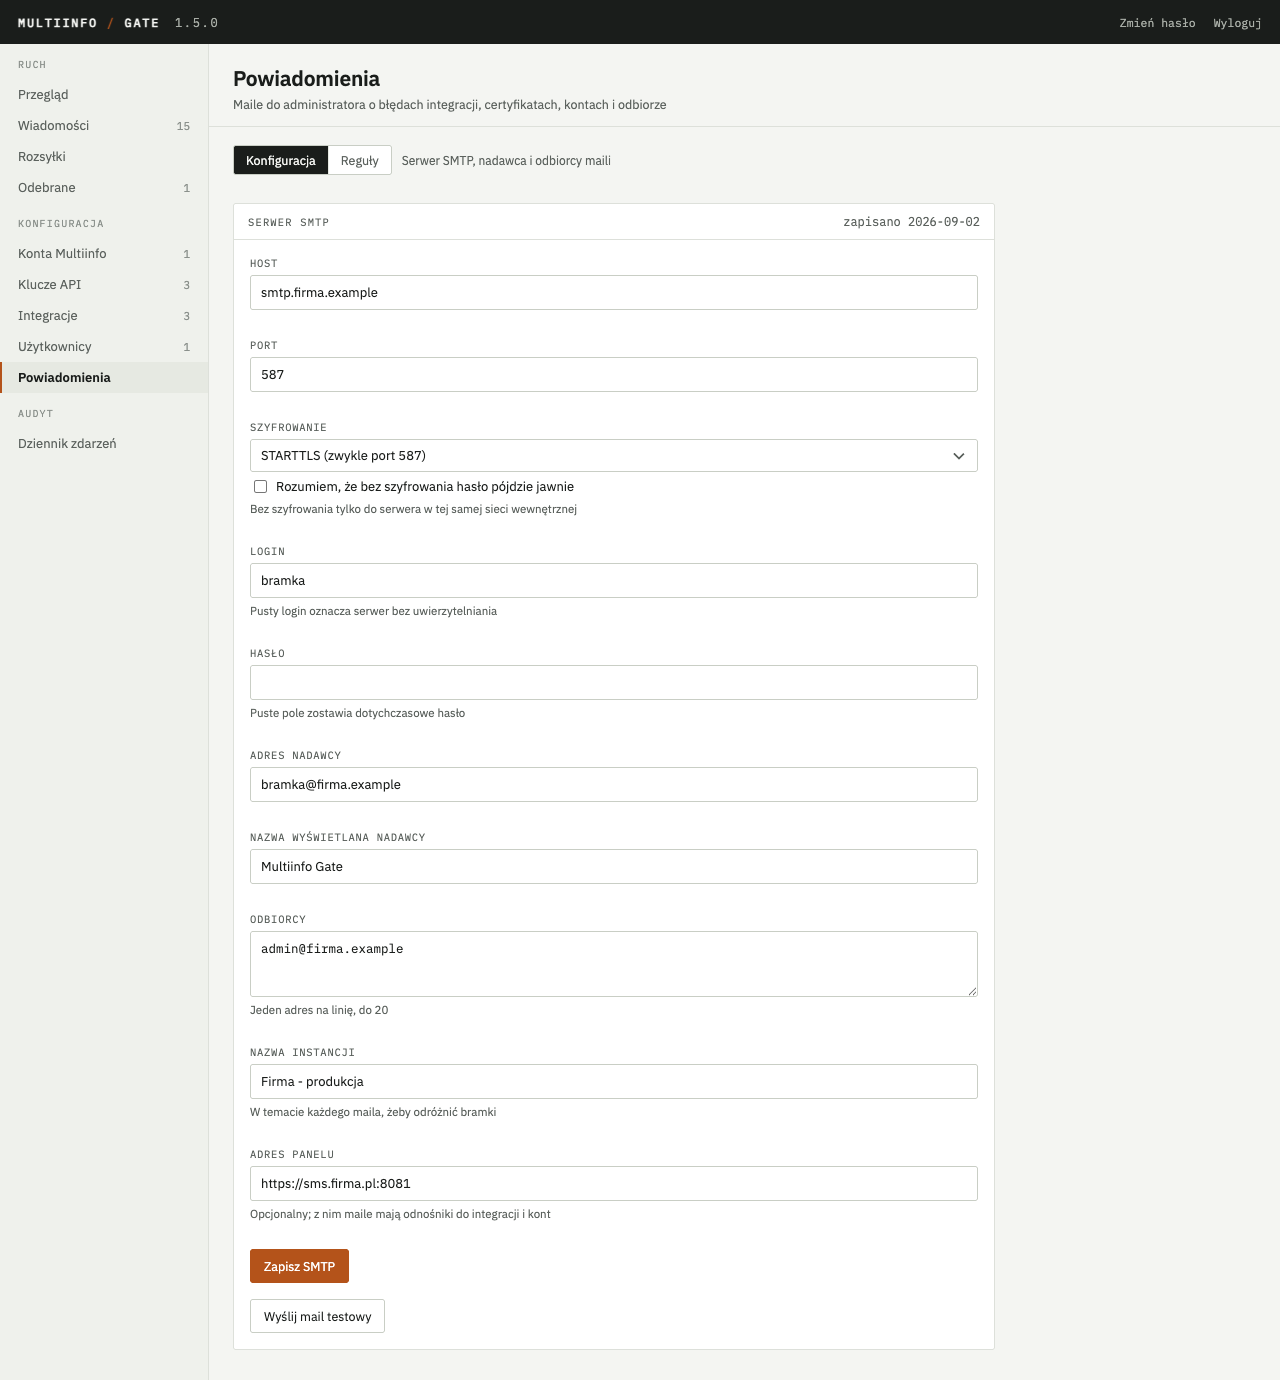
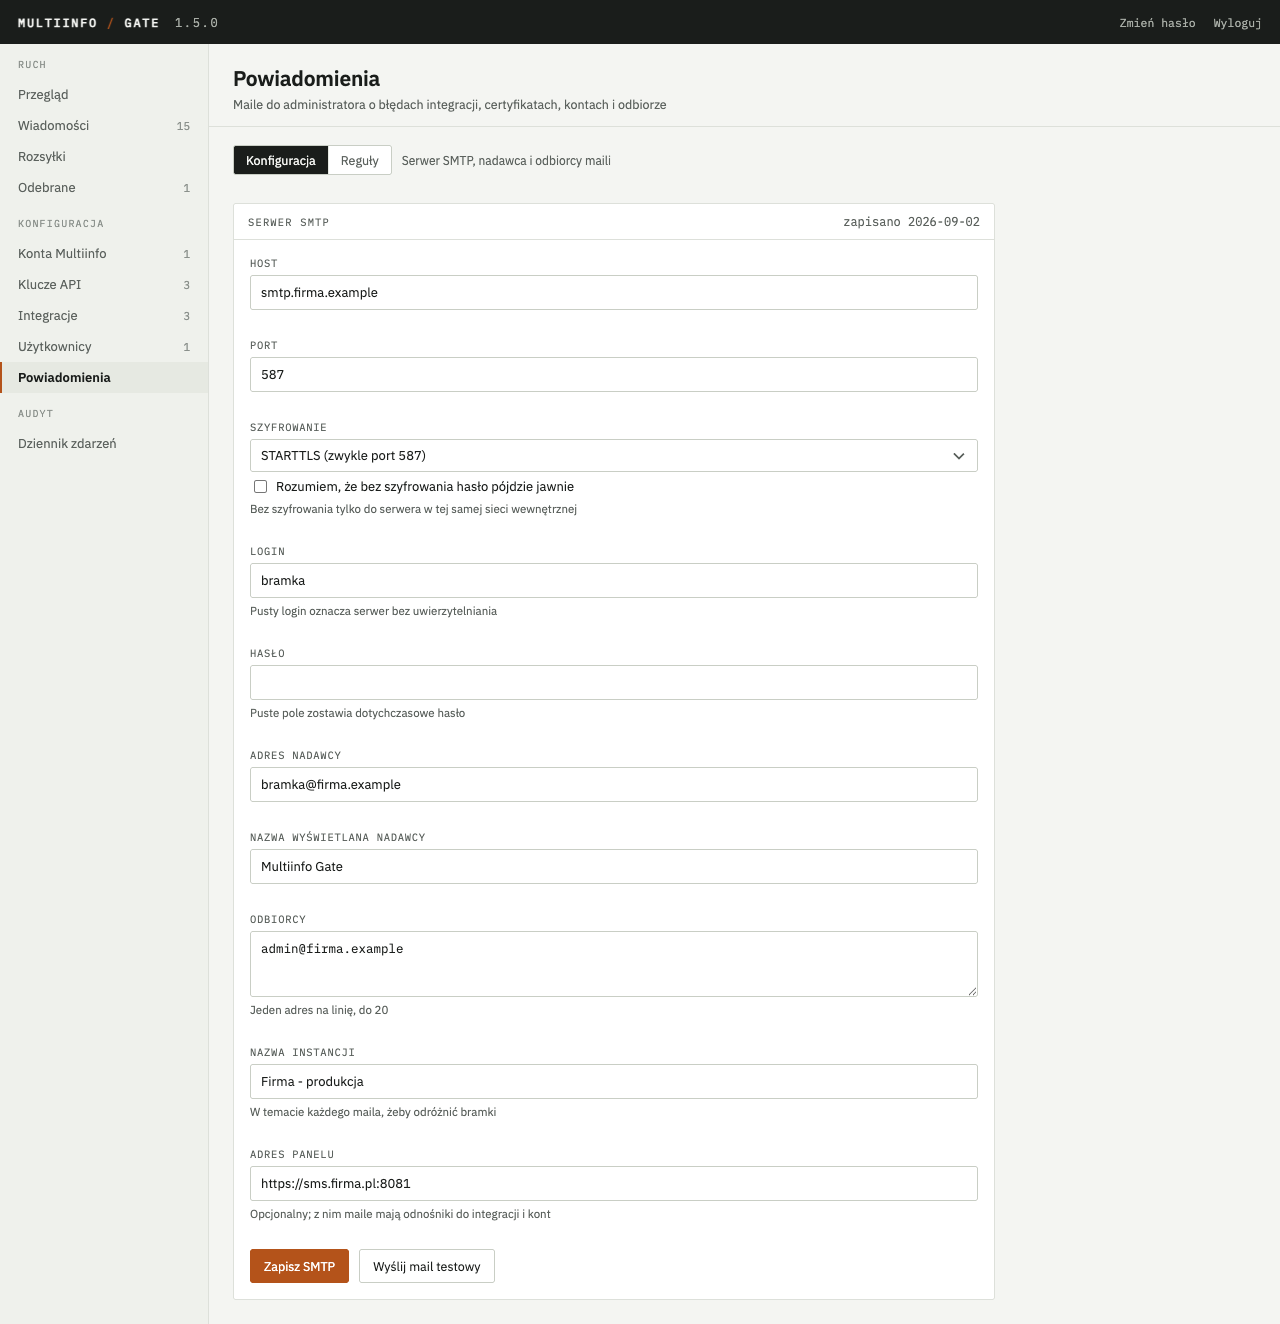
fix(panel): Zapisz SMTP i Wyślij mail testowy obok siebie

diff --git a/src/admin/views/notifications.ts b/src/admin/views/notifications.ts
@@ -112,7 +112,7 @@ ${d.tab === 'konfiguracja' ? `      <div class="panel" style="max-width: 760px;"
         <div class="panel-h"><div class="lab">Serwer SMTP</div>
           ${configured ? `<span class="m dim">zapisano ${esc(d.smtp!.updatedAt.slice(0, 10))}</span>` : '<span class="dim">nieskonfigurowany</span>'}</div>
         ${smtpError}
-        <form class="form" method="post" action="/powiadomienia/smtp">
+        <form class="form" id="smtp-form" method="post" action="/powiadomienia/smtp">
           <div class="field">
             <label for="host">Host</label>
             <input id="host" name="host" value="${esc(v.host)}" placeholder="smtp.firma.example" required>
@@ -164,11 +164,10 @@ ${d.tab === 'konfiguracja' ? `      <div class="panel" style="max-width: 760px;"
           </div>
           <div class="bar">
             <button class="btn btn-p" type="submit">Zapisz SMTP</button>
+            <button class="btn btn-s" type="submit" form="smtp-test"${configured ? '' : ' disabled'}>Wyślij mail testowy</button>
           </div>
         </form>
-        <form method="post" action="/powiadomienia/smtp/test" style="padding: 0 16px 16px;">
-          <button class="btn btn-s" type="submit"${configured ? '' : ' disabled'}>Wyślij mail testowy</button>
-        </form>
+        <form id="smtp-test" method="post" action="/powiadomienia/smtp/test"></form>
       </div>` : `      <div class="panel${configured ? '' : ' dim'}" style="max-width: 1180px;">
         ${configured ? '' : '<div class="warn">Najpierw skonfiguruj SMTP - bez niego reguły nie mają dokąd wysyłać.</div>'}
         ${rulesError}
